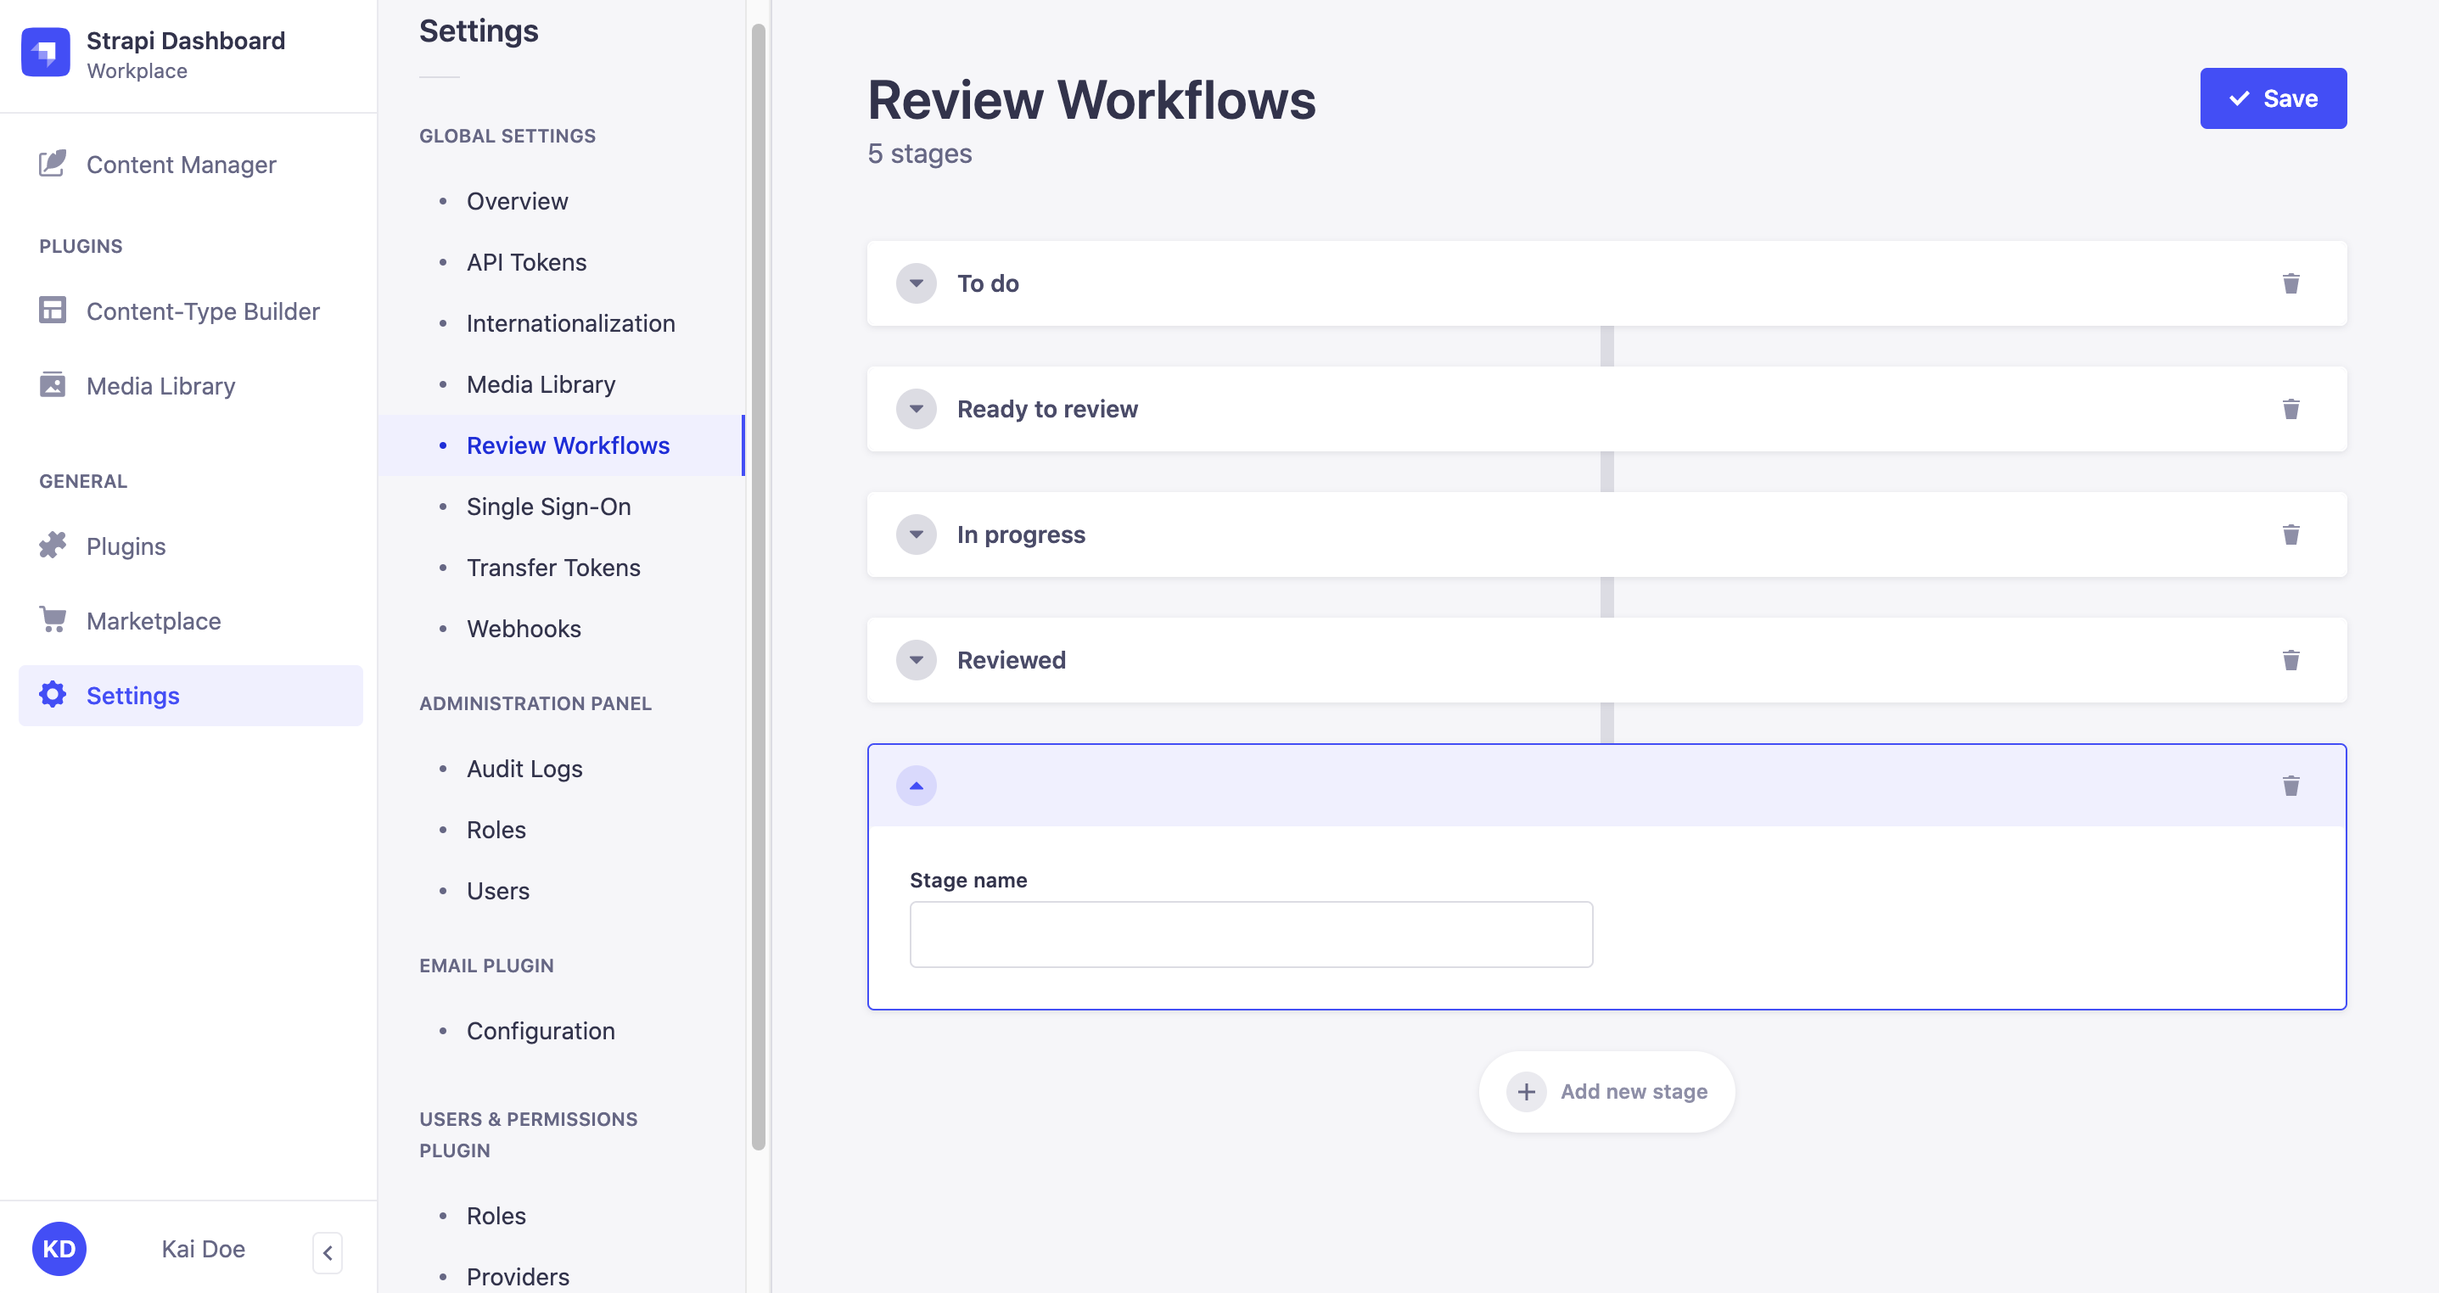
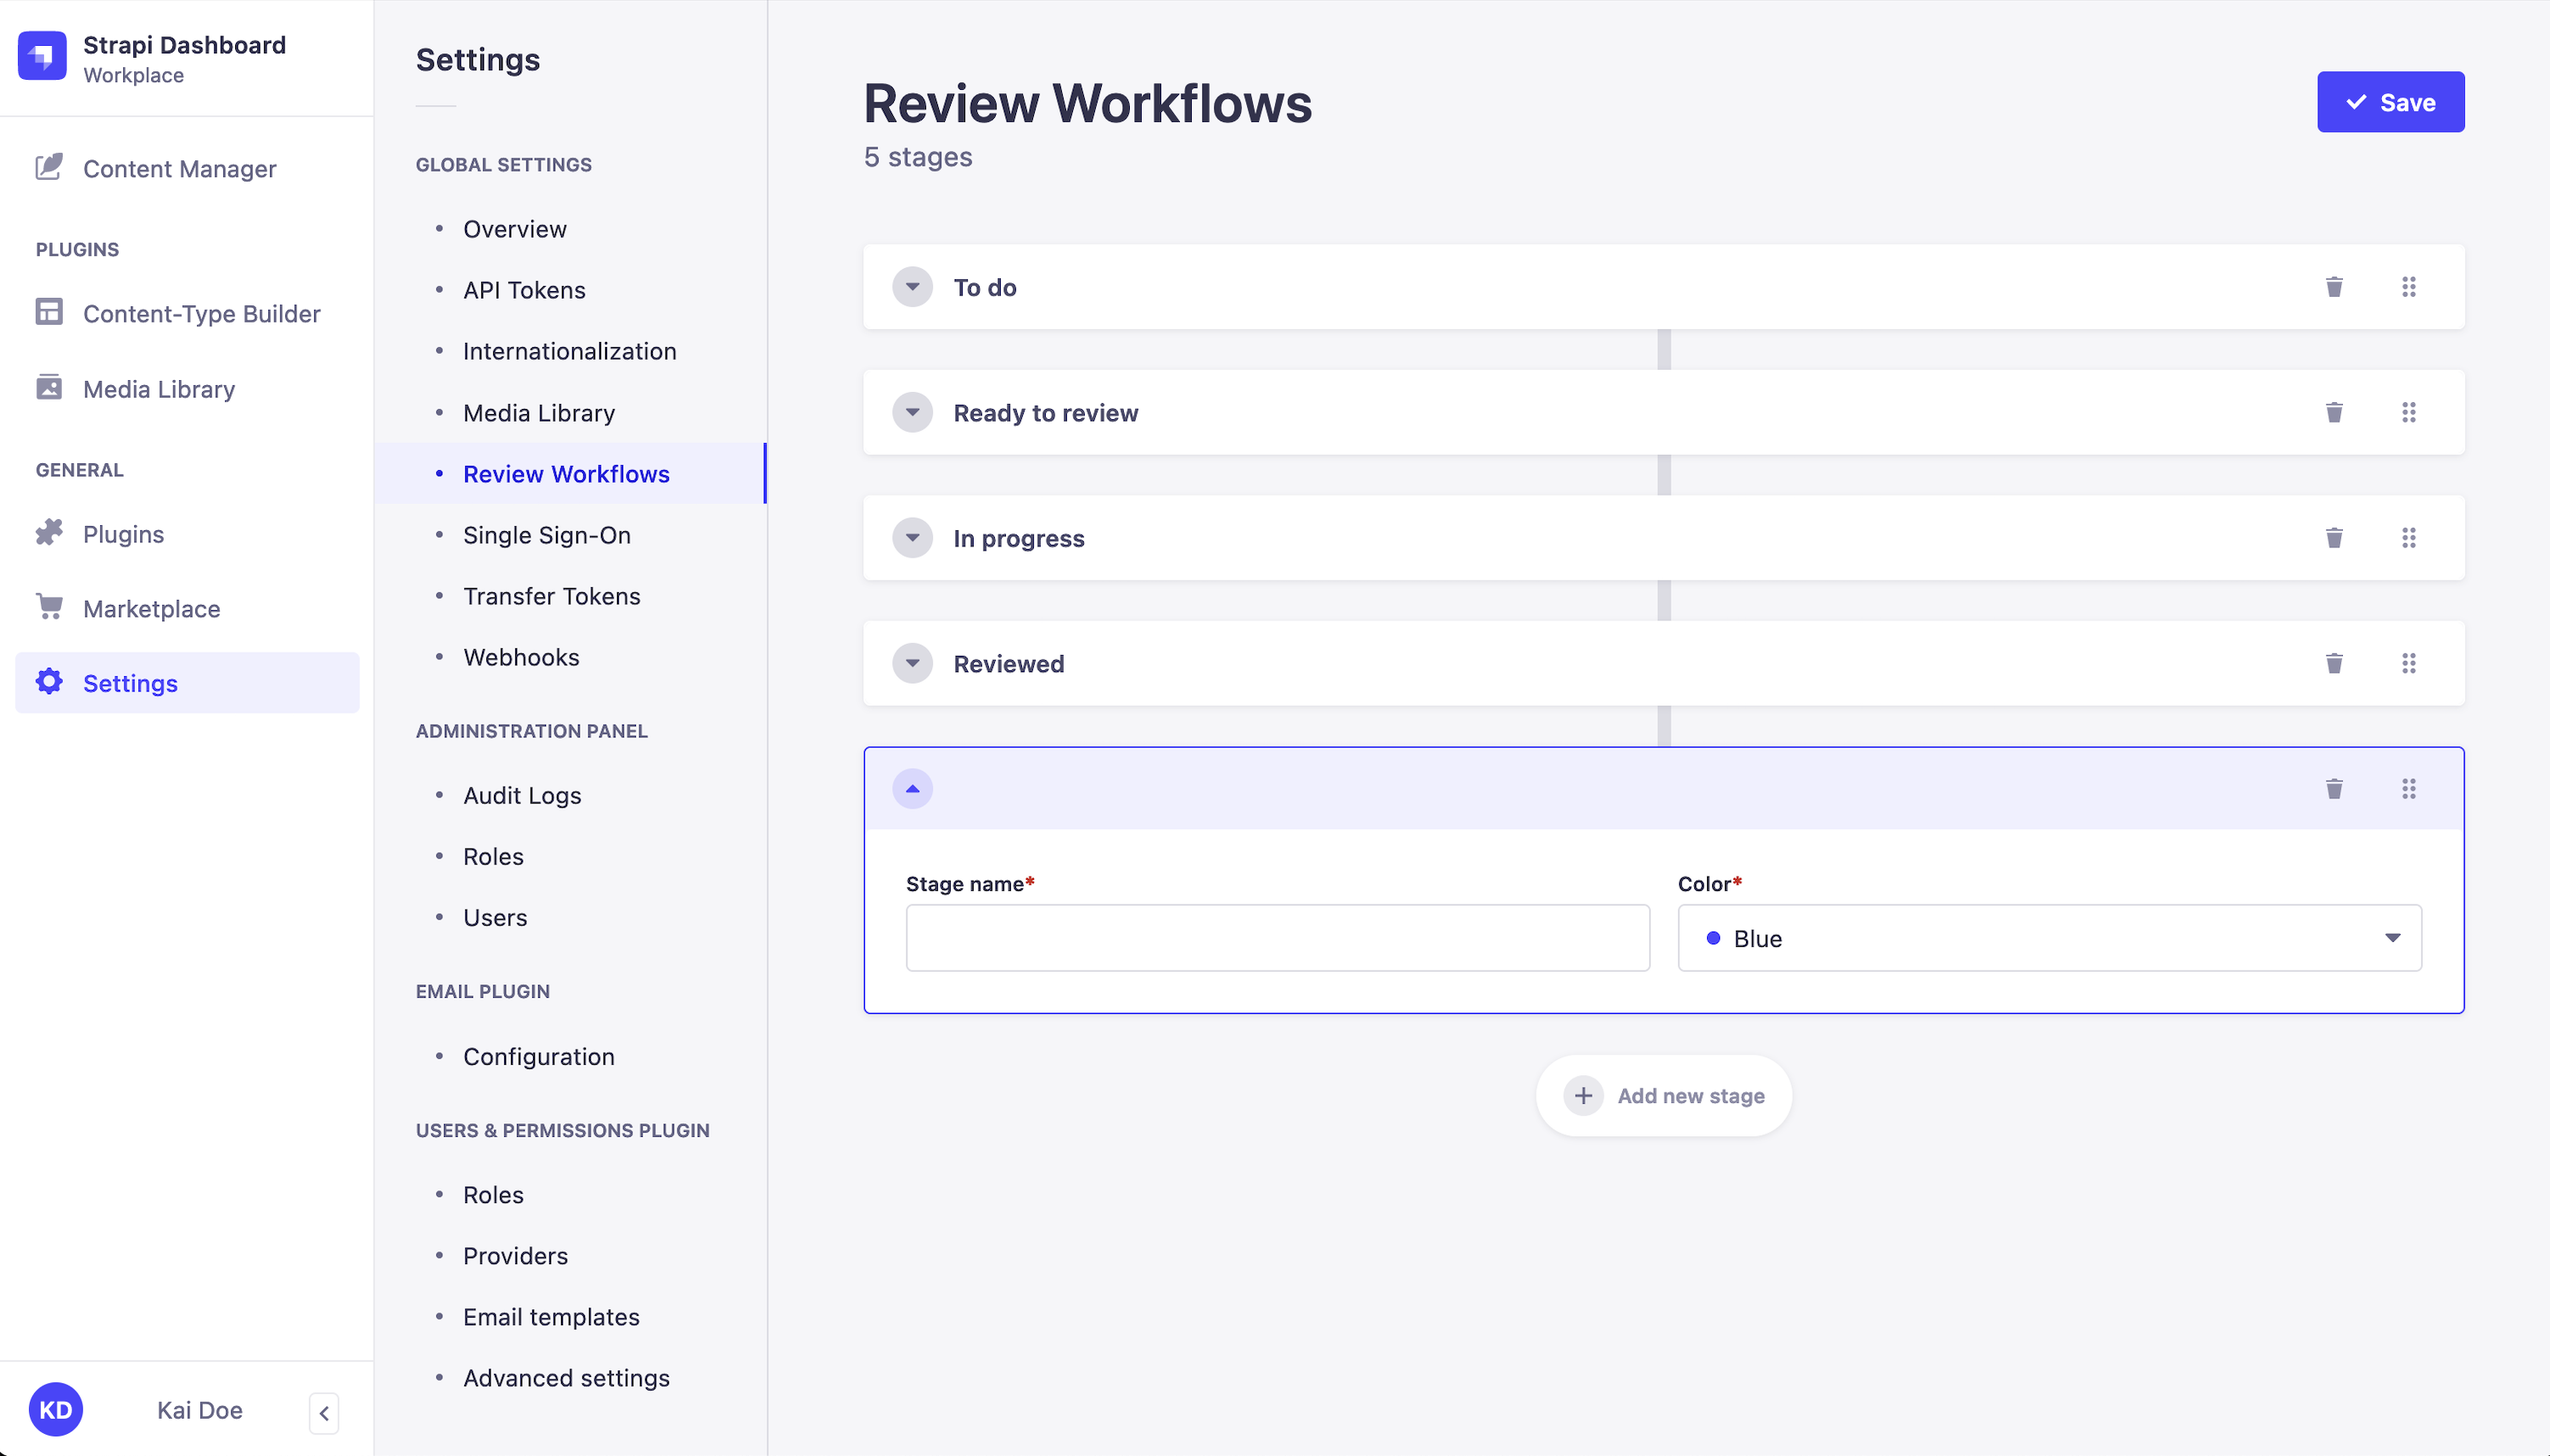
Review Workflows: Add colors and reordering to user docs

diff --git a/docusaurus/docs/user-docs/settings/review-workflows.md b/docusaurus/docs/user-docs/settings/review-workflows.md
@@ -14,7 +14,7 @@ The Review Workflows feature allows you to create and manage any desired review 
 
 ![Review Workflows Settings](/img/assets/review-workflows/review-workflows.png)
 
-There are 4 stages in the default review workflow available in Strapi: To do, In progress, Ready to review, and Reviewed. All 4 stages can be edited or deleted as needed, and it is also possible to add new stages.
+There are 4 stages in the default review workflow available in Strapi: To do, In progress, Ready to review, and Reviewed. All 4 stages can be edited, reordered or deleted as needed, and it is also possible to add new stages.
 
 ## Adding a new stage
 
@@ -22,7 +22,12 @@ To add a new stage in the review workflows:
 
 1. Click on the **Add new stage** button.
 2. Write the *Stage name*.
+3. Select a *Color*
 3. Click on the **Save** button.
+
+:::tip
+By default new stages are appended, but they can be reordered anytime using the ![drag & drop](/img/assets/icons/drag.svg) button.
+:::
 
 ## Deleting a stage
 
